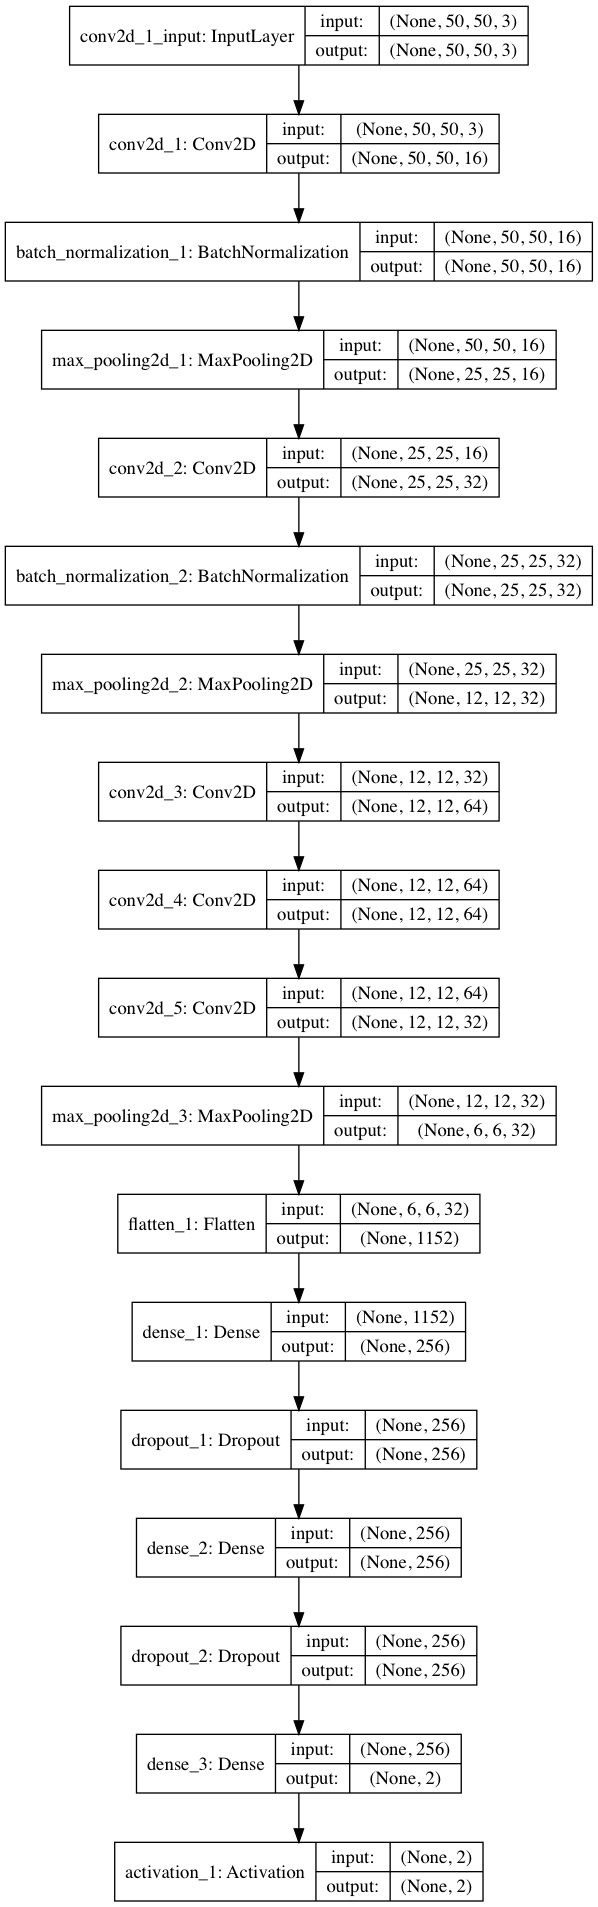
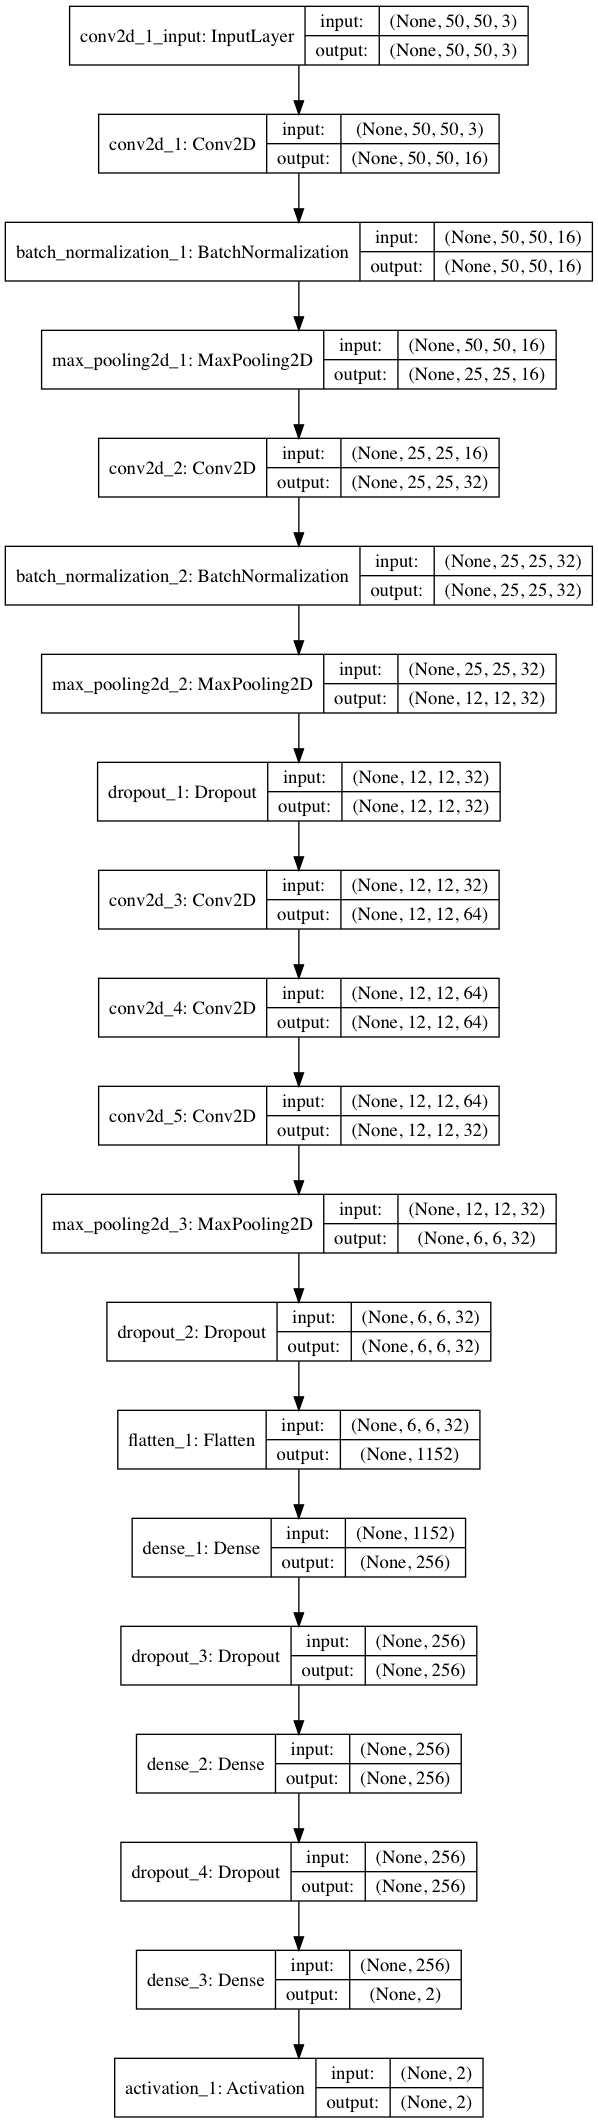
[fix]モデルを調整

Changed region(s): [[0.0, 0.0, 0.9933, 1.0]]

diff --git a/src/model.py b/src/model.py
@@ -25,7 +25,7 @@ from keras.utils import plot_model
 import data_loader
 
 
-EPOCHS = 10
+EPOCHS = 100
 BATCH_SIZE = 16
 
 
@@ -73,6 +73,7 @@ class Foreigner_classifier():
                               activation="relu"))
         self.model.add(BatchNormalization())
         self.model.add(MaxPooling2D(pool_size=2))
+        self.model.add(Dropout(0.5))
 
         self.model.add(Conv2D(filters=64, kernel_size=2, padding="same",
                               activation="relu"))
@@ -81,6 +82,7 @@ class Foreigner_classifier():
         self.model.add(Conv2D(filters=32, kernel_size=2, padding="same",
                               activation="relu"))
         self.model.add(MaxPooling2D(pool_size=2))
+        self.model.add(Dropout(0.5))
 
         self.model.add(Flatten())
         self.model.add(Dense(256))
@@ -216,6 +218,7 @@ def main():
     foreign_clf.save_model(args.checkpoint_path)
     foreign_clf.evaluate()
     foreign_clf.show_error_detail()
+    foreign_clf.save_error_image("../data/err_images/")
     K.clear_session()
 
 
